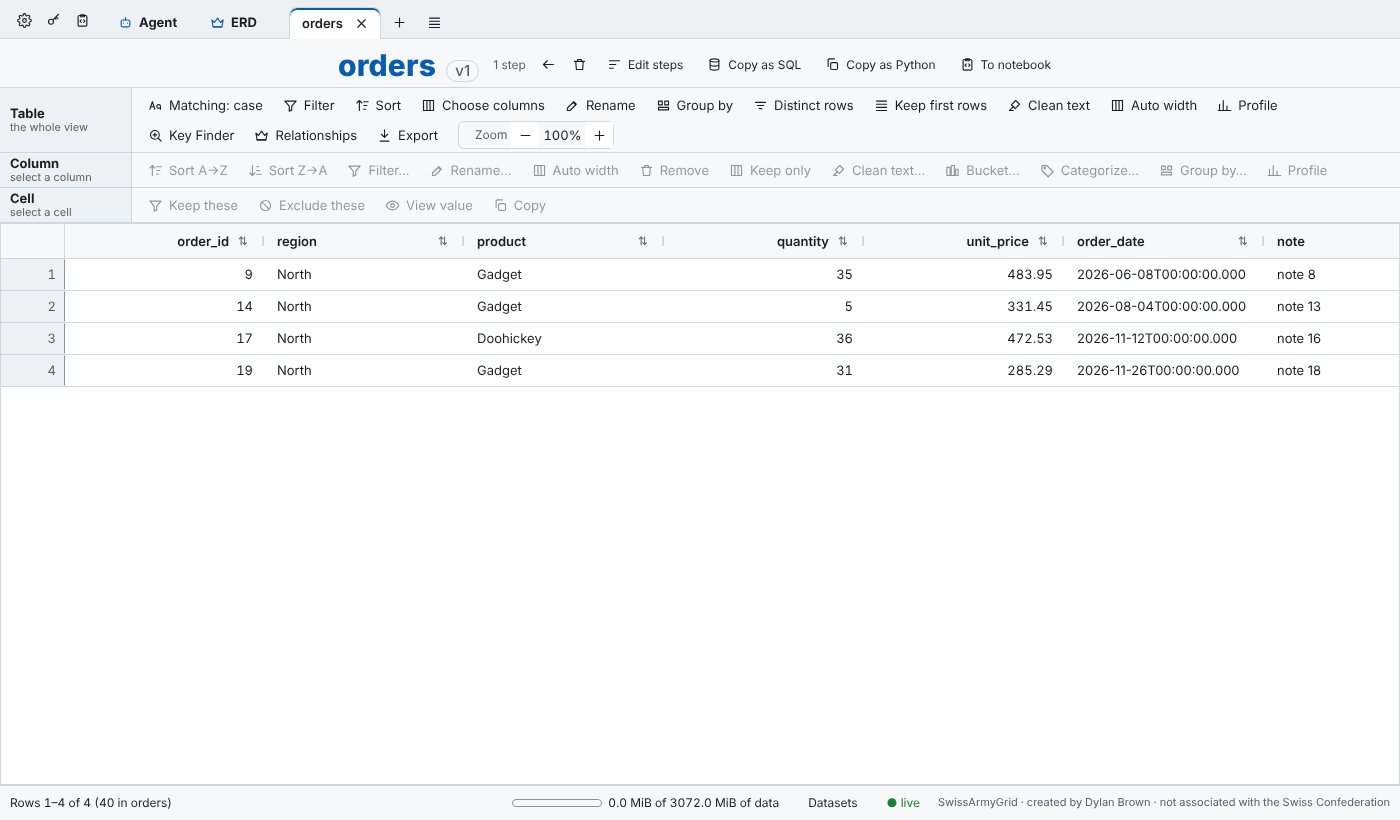
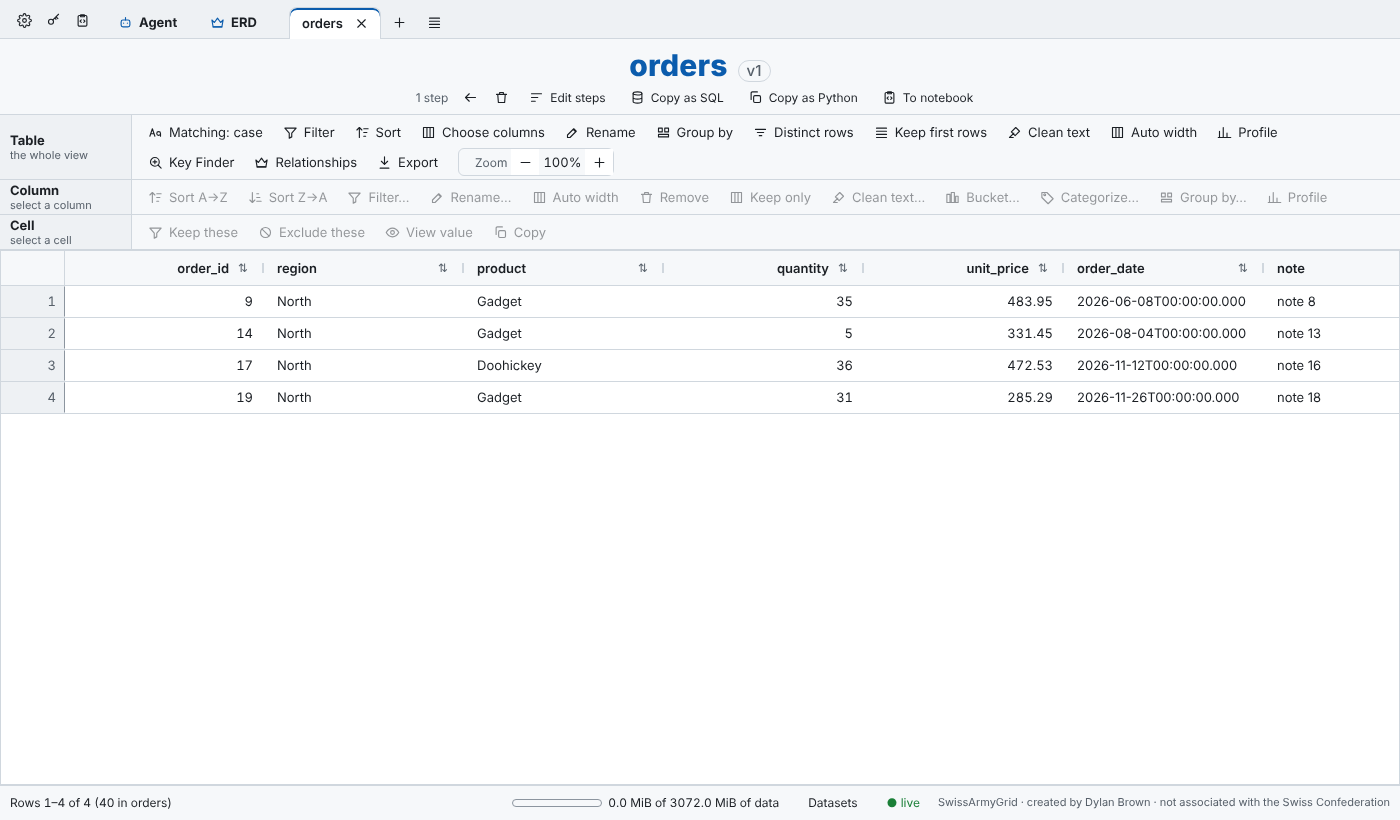
The table's name has its line to itself; the steps strip sits under it
Claude-Session: https://claude.ai/code/session_01FWQnp3dtRkEnByKM6kHori

Changed region(s): [[0.0, 0.061, 1.0, 0.5183], [0.43, 0.3049, 0.4914, 0.3354], [0.0307, 0.4573, 0.0614, 0.4878]]

diff --git a/web/static/grid.css b/web/static/grid.css
@@ -2898,11 +2898,11 @@ body.agent-view .titlebar {
 
 /* ===== the steps strip under the title (the panel itself opens in its own window) ===== */
 
+/* The table's name has its line to itself; the steps strip sits on its own line under it. */
 .titlebar {
-  display: flex;
-  flex-wrap: wrap;
+  flex-direction: column;
   align-items: center;
-  gap: 4px 14px;
+  gap: 2px;
 }
 
 .steps-strip {
